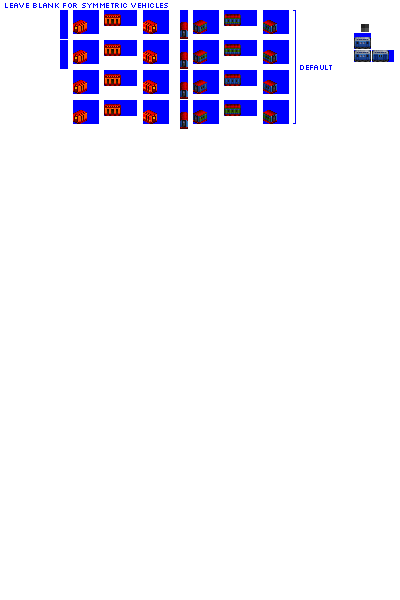
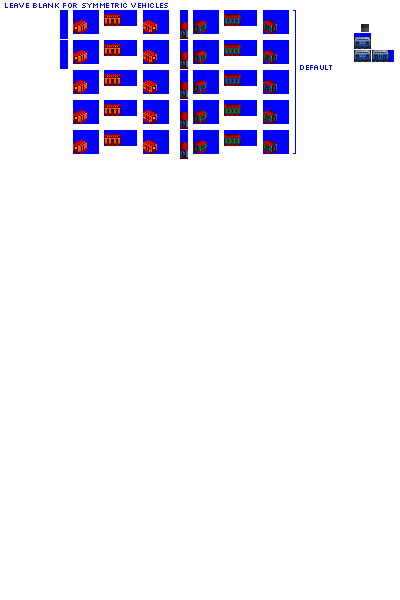
Change: add a permanently red mail car variant (sprites unfinished)

Changed region(s): [[0.45, 0.21, 0.75, 0.27], [0.18, 0.21, 0.42, 0.27]]

diff --git a/src/vehicles/mail_cars.py b/src/vehicles/mail_cars.py
@@ -9,7 +9,7 @@ def main():
         gen=1,
         subtype="U",
         base_track_type_name="NG",
-        sprites_complete=True,
+        sprites_complete=False,
     )
 
     consist.add_unit(type=ExpressMailCar, chassis="4_axle_ng_16px")
@@ -22,7 +22,7 @@ def main():
         gen=3,
         subtype="U",
         base_track_type_name="NG",
-        sprites_complete=True,
+        sprites_complete=False,
     )
 
     consist.add_unit(type=ExpressMailCar, chassis="4_axle_ng_16px")
@@ -33,7 +33,7 @@ def main():
         gen=4,
         subtype="U",
         base_track_type_name="NG",
-        sprites_complete=True,
+        sprites_complete=False,
     )
 
     consist.add_unit(type=ExpressMailCar, chassis="4_axle_ng_16px")
@@ -45,7 +45,7 @@ def main():
         base_numeric_id=11320,
         gen=1,
         subtype="A",
-        sprites_complete=True,
+        sprites_complete=False,
     )
 
     consist.add_unit(type=ExpressMailCar, chassis="3_axle_solid_express_16px")
@@ -55,7 +55,7 @@ def main():
         base_numeric_id=11260,
         gen=1,
         subtype="B",
-        sprites_complete=True,
+        sprites_complete=False,
     )
 
     consist.add_unit(type=ExpressMailCar, chassis="4_axle_solid_express_24px")
@@ -65,7 +65,7 @@ def main():
         base_numeric_id=11330,
         gen=2,
         subtype="A",
-        sprites_complete=True,
+        sprites_complete=False,
     )
 
     consist.add_unit(type=ExpressMailCar, chassis="3_axle_solid_express_16px")
@@ -75,7 +75,7 @@ def main():
         base_numeric_id=9960,
         gen=2,
         subtype="B",
-        sprites_complete=True,
+        sprites_complete=False,
     )
 
     consist.add_unit(type=ExpressMailCar, chassis="4_axle_solid_express_24px")
@@ -85,7 +85,7 @@ def main():
         base_numeric_id=10870,
         gen=3,
         subtype="A",
-        sprites_complete=True,
+        sprites_complete=False,
     )
 
     consist.add_unit(type=ExpressMailCar, chassis="3_axle_solid_express_16px")
@@ -95,7 +95,7 @@ def main():
         base_numeric_id=11340,
         gen=3,
         subtype="B",
-        sprites_complete=True,
+        sprites_complete=False,
     )
 
     consist.add_unit(type=ExpressMailCar, chassis="4_axle_solid_express_24px")
@@ -105,7 +105,7 @@ def main():
         base_numeric_id=9980,
         gen=3,
         subtype="C",
-        sprites_complete=True,
+        sprites_complete=False,
     )
 
     consist.add_unit(type=ExpressMailCar, chassis="4_axle_solid_express_32px")
@@ -115,7 +115,7 @@ def main():
         base_numeric_id=10470,
         gen=4,
         subtype="A",
-        sprites_complete=True,
+        sprites_complete=False,
     )
 
     consist.add_unit(type=ExpressMailCar, chassis="2_axle_solid_express_16px")
@@ -125,7 +125,7 @@ def main():
         base_numeric_id=12200,
         gen=4,
         subtype="B",
-        sprites_complete=True,
+        sprites_complete=False,
     )
 
     consist.add_unit(type=ExpressMailCar, chassis="4_axle_solid_express_24px")
@@ -135,7 +135,7 @@ def main():
         base_numeric_id=12210,
         gen=4,
         subtype="C",
-        sprites_complete=True,
+        sprites_complete=False,
     )
 
     consist.add_unit(type=ExpressMailCar, chassis="4_axle_solid_express_32px")
@@ -145,7 +145,7 @@ def main():
         base_numeric_id=9560,
         gen=5,
         subtype="A",
-        sprites_complete=True,
+        sprites_complete=False,
     )
 
     consist.add_unit(type=ExpressMailCar, chassis="2_axle_solid_express_16px")
@@ -155,7 +155,7 @@ def main():
         base_numeric_id=10010,
         gen=5,
         subtype="B",
-        sprites_complete=True,
+        sprites_complete=False,
     )
 
     consist.add_unit(type=ExpressMailCar, chassis="4_axle_solid_express_24px")
@@ -165,7 +165,7 @@ def main():
         base_numeric_id=12180,
         gen=5,
         subtype="C",
-        sprites_complete=True,
+        sprites_complete=False,
     )
 
     consist.add_unit(type=ExpressMailCar, chassis="4_axle_solid_express_32px")
@@ -177,7 +177,7 @@ def main():
         base_numeric_id=9910,
         gen=6,
         subtype="A",
-        sprites_complete=True,
+        sprites_complete=False,
     )
 
     consist.add_unit(type=ExpressMailCar, chassis="2_axle_solid_express_16px")
@@ -187,7 +187,7 @@ def main():
         base_numeric_id=10990,
         gen=6,
         subtype="B",
-        sprites_complete=True,
+        sprites_complete=False,
     )
 
     consist.add_unit(type=ExpressMailCar, chassis="4_axle_solid_express_24px")
@@ -197,7 +197,7 @@ def main():
         base_numeric_id=9050,
         gen=6,
         subtype="C",
-        sprites_complete=True,
+        sprites_complete=False,
     )
 
     consist.add_unit(type=ExpressMailCar, chassis="4_axle_solid_express_32px")

diff --git a/src/gestalt_graphics/gestalt_graphics.py b/src/gestalt_graphics/gestalt_graphics.py
@@ -826,6 +826,9 @@ class GestaltGraphicsConsistPositionDependent(GestaltGraphics):
         self.consist_ruleset = kwargs.get("consist_ruleset", None)
         # liveries provided by subclass calling gestalt_graphics
         self.liveries = kwargs.get("liveries", [])
+        # colour mapping stuff...
+        self.colour_mapping_switch = "_switch_colour_mapping"
+        self.colour_mapping_with_purchase = True
         # verify that the spriterow_group_mappings keys are in the expected order
         if list(self.spriterow_group_mappings.keys()) != [
             "default",

diff --git a/src/rosters/pony.py b/src/rosters/pony.py
@@ -476,6 +476,13 @@ def main():
                     ("COLOUR_RED", "COLOUR_WHITE"),
                 ],
             },
+            {
+                "relative_spriterow_num": 4,
+                "remap_to_cc_cabbage": ["COLOUR_RED", "COLOUR_YELLOW"],
+                "docs_image_input_cc": [
+                    ("COLOUR_RED", "COLOUR_WHITE"),
+                ],
+            },
         ],
         diesel_railcar_mail_liveries=[
             {

diff --git a/src/train.py b/src/train.py
@@ -4597,6 +4597,8 @@ class BuyableVariant(object):
         self._relative_spriterow_num = livery.get("relative_spriterow_num", None)
         # option to date limit introduction certain liveries
         self.forced_intro_year = livery.get("forced_intro_year", None)
+        # option to remap CC1 and CC2
+        self.remap_to_cc_cabbage = livery.get("remap_to_cc_cabbage", None)
 
     @property
     def buyable_variant_num(self):
